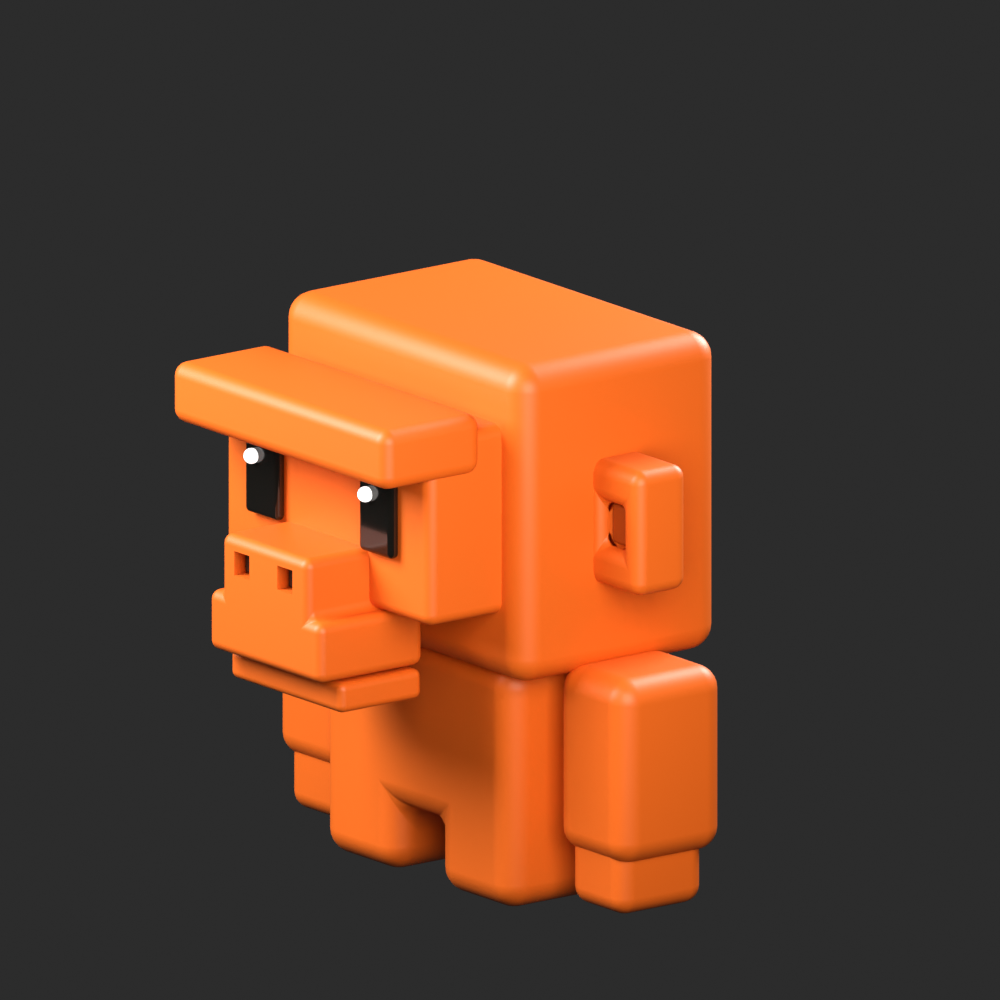
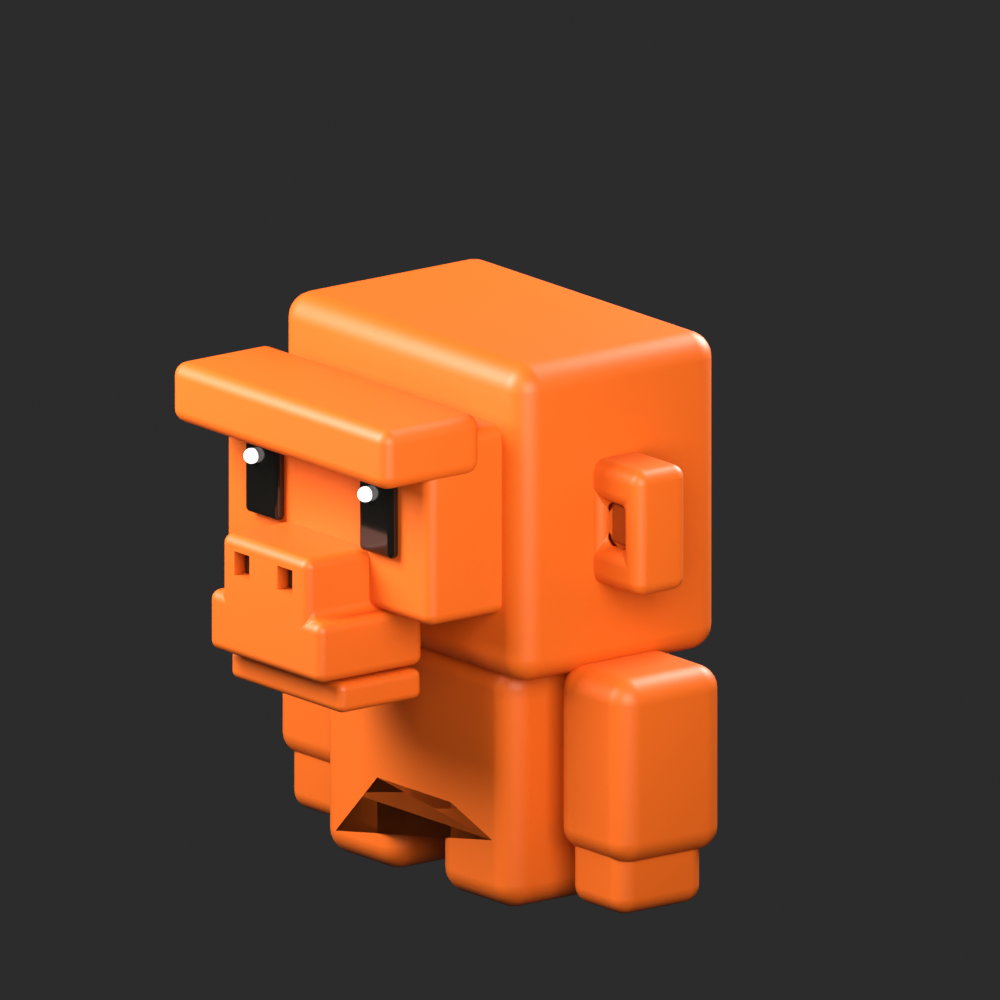
Master GLB v1.2: legs material slot so kit apes get brown fur legs
The torso mesh (legs are carved from the same block by design) gains a
second material slot on the faces below the leg notch, baked in the same
body orange — the locked default look is pixel-identical. In kit mode
the app now tints the vest slot to the agent accent and the legs slot to
brand dark #B85712, so the legs read as fur instead of being swallowed
by the kit color. Tinting matches by material + owning node since the
torso exports as a multi-primitive mesh. Lock doc records the approved
v1.2 variants; checksum updated.

Claude-Session: https://claude.ai/code/session_01VbNPaMUmq4GHac9VRJb58d

Changed region(s): [[0.341, 0.775, 0.496, 0.868]]

diff --git a/agent-platform/frontend/src/components/world/ApeAgentModel.tsx b/agent-platform/frontend/src/components/world/ApeAgentModel.tsx
@@ -143,10 +143,22 @@ export function ApeAgentModel({ status = "idle", clip = null, accent = null, jer
         mesh.castShadow = true;
         mesh.receiveShadow = true;
         mesh.frustumCulled = false; // skinned bounds don't track bones
-        if (accent && o.name === "TORSO") {
-          const m = (mesh.material as THREE.MeshStandardMaterial).clone();
-          m.color = new THREE.Color(accent);
-          mesh.material = m;
+        // kit mode: the torso's "body" slot takes the agent accent (vest) and
+        // its "legs" slot goes brand dark-brown so the legs read as fur, not
+        // kit. The plain mascot (no accent) stays locked all-orange. The torso
+        // is multi-primitive, so match by material + owning node, not mesh name.
+        if (accent) {
+          const src = mesh.material as THREE.MeshStandardMaterial;
+          const onTorso = o.name.startsWith("TORSO") || o.parent?.name === "TORSO";
+          if (src.name === "legs") {
+            const m = src.clone();
+            m.color = new THREE.Color("#B85712");
+            mesh.material = m;
+          } else if (src.name === "body" && onTorso) {
+            const m = src.clone();
+            m.color = new THREE.Color(accent);
+            mesh.material = m;
+          }
         }
       }
     });

diff --git a/agent-platform/3d/ape_agent_master_build.py b/agent-platform/3d/ape_agent_master_build.py
@@ -78,6 +78,21 @@ def carve(target, c):
 # from the bottom to form two legs — no leg/body seam line, just a clean gap
 tor = box("TORSO", (1.50, 1.22, 1.04), (0, 0.61, 0), 0.13, M["body"])  # 20% shorter lower half
 carve(tor, cutter((0.32, 0.67, 1.3), (0, 0.0, 0.04)))
+# v1.2: second material slot on the leg region (below the notch top). SAME
+# colour as the body so the locked look is pixel-identical — it only lets the
+# app tint the "legs" slot separately as an approved kit variant.
+M["legs"] = mat("legs", COL["body"])
+tor.data.name = "TORSO"          # datablock name → child primitive names in glTF
+tor.data.materials.append(M["legs"])
+LEG_TOP = 0.345
+bpy.context.view_layer.objects.active = tor
+bpy.ops.object.mode_set(mode="EDIT")
+bpy.ops.mesh.select_all(action="SELECT")
+bpy.ops.mesh.bisect(plane_co=(0, 0, LEG_TOP), plane_no=(0, 0, 1))
+bpy.ops.object.mode_set(mode="OBJECT")
+for p in tor.data.polygons:
+    if p.center.z < LEG_TOP:
+        p.material_index = 1
 # arm with a SMALLER hand block at the bottom (hand narrower than the arm)
 box("ARM_L", (0.54, 0.92, 0.64), (-1.11, 0.78, 0.0), 0.12, M["body"])
 box("ARM_R", (0.54, 0.92, 0.64), (1.11, 0.78, 0.0), 0.12, M["body"])

diff --git a/docs/APE_AGENT_ASSET_LOCK.md b/docs/APE_AGENT_ASSET_LOCK.md
@@ -1,8 +1,24 @@
-# APE Agent — Master Asset Lock (v1.1)
+# APE Agent — Master Asset Lock (v1.2)
 
 `agent-platform/frontend/public/models/ape-agent-master.glb` is the **only approved
 master character**. Approved and locked as v1; v1.1 adds the rig and the 12
 approved animation clips with the rest-pose geometry unchanged.
+
+## v1.2 — agent kit variants (approved)
+
+Geometry and the default look are unchanged. The torso mesh gains a second
+material slot, `legs`, on the faces below the leg notch (baked in the same
+body orange, so the plain mascot renders identically). Approved per-agent
+variants the app may apply:
+
+- **Accent vest** — tint the torso's `body` slot to the agent's accent color
+  (`avatarHue`); fur, arms, hands, head stay brand orange.
+- **Brown legs** — when (and only when) the vest is applied, the `legs` slot
+  tints to brand dark `#B85712` so the legs read as fur, not kit.
+- **Jersey prints** — chest crest + squad label and back number attach as
+  planes to `SOCKET_CHEST` / `SOCKET_BACK` (accessory rule; they ride the
+  spine bone).
+- **Status glyphs** — `StatusFx` floats outside the character mesh (FX rule).
 
 ## v1.1 — rig + animation
 